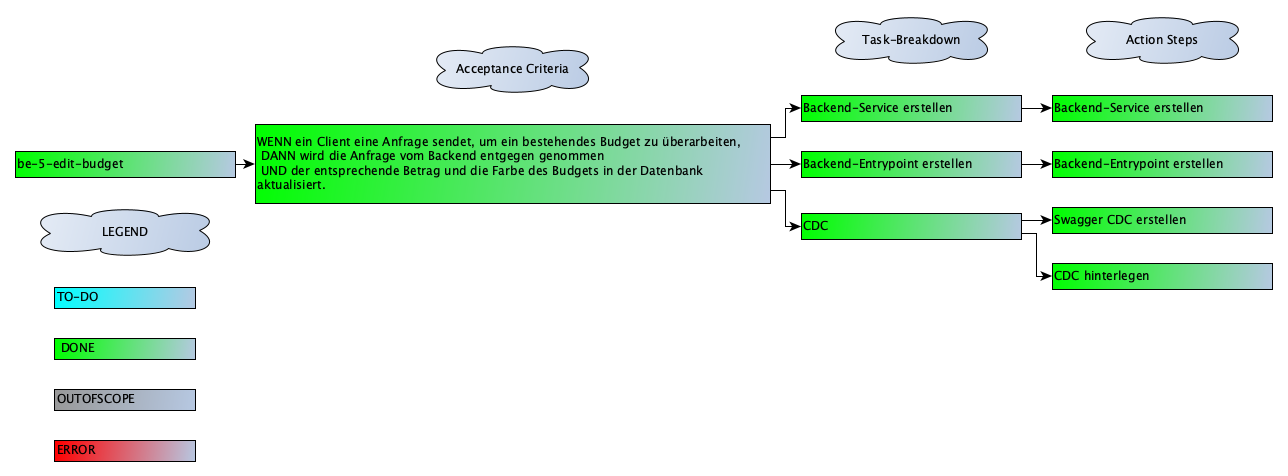
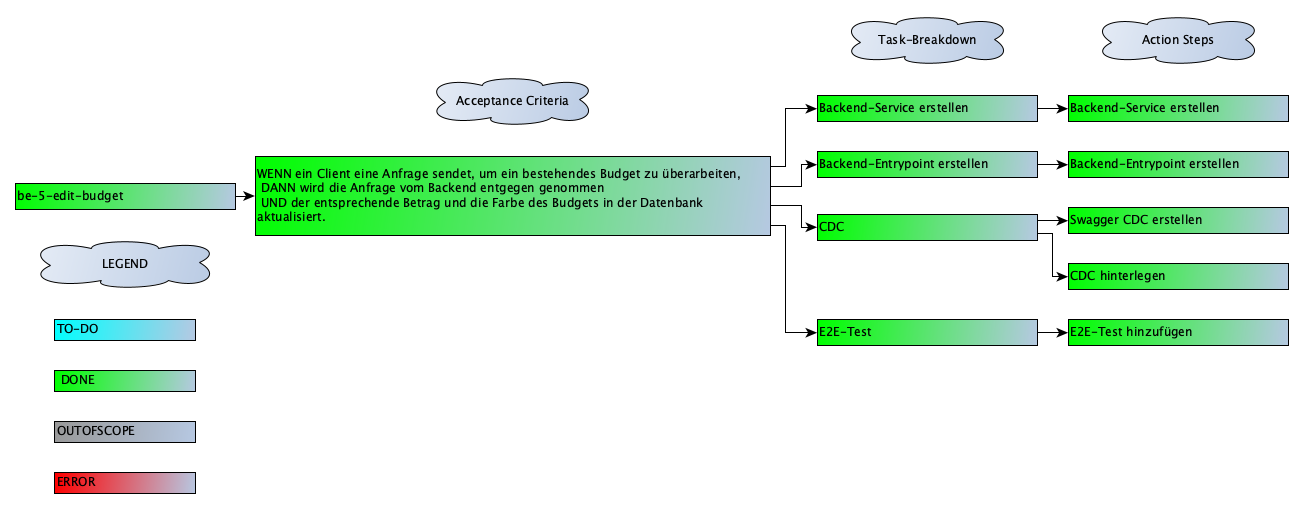
be-4 add E2E-Tests

diff --git a/backend/test/app.e2e-spec-local.ts b/backend/test/app.e2e-spec-local.ts
@@ -19,7 +19,7 @@ describe('AppController (e2e)', () => {
     return request(app.getHttpServer())
       .get('/')
       .expect(200)
-      .expect('Hello World!');
+      .expect('Server is reachable and healthy');
   });
 
   it('/balance (GET)', async () => {
@@ -472,5 +472,33 @@ describe('AppController (e2e)', () => {
         { category: 'Dining Out', maximum: '75.00', theme: '#F2CDAC' },
         { category: 'Personal Care', maximum: '100.00', theme: '#626070' },
       ]);
+  });
+
+  it('/budget/addNewBudget (POST)', async () => {
+    const newBudget = {
+      category: 'Transportation',
+      maximum: 50.0,
+      theme: '#277C78',
+    };
+
+    return request(app.getHttpServer())
+      .post('/budget/addNewBudget')
+      .send(newBudget)
+      .expect(201)
+      .expect({});
+  });
+
+  it('/budget/editBudget (PUT)', async () => {
+    const updatedBudget = {
+      category: 'Personal Care',
+      maximum: 100.0,
+      theme: '#FF5733',
+    };
+
+    return request(app.getHttpServer())
+      .put('/budget/editBudget')
+      .send(updatedBudget)
+      .expect(200)
+      .expect({});
   });
 });

diff --git a/backend/test/app.e2e-spec.ts b/backend/test/app.e2e-spec.ts
@@ -473,4 +473,32 @@ describe('AppController (e2e)', () => {
         { category: 'Personal Care', maximum: '100.00', theme: '#626070' },
       ]);
   });
+
+  it('/budget/addNewBudget (POST)', async () => {
+    const newBudget = {
+      category: 'Transportation',
+      maximum: 50.0,
+      theme: '#277C78',
+    };
+
+    return request(app.getHttpServer())
+      .post('/budget/addNewBudget')
+      .send(newBudget)
+      .expect(201)
+      .expect({});
+  });
+
+  it('/budget/editBudget (PUT)', async () => {
+    const updatedBudget = {
+      category: 'Personal Care',
+      maximum: 100.0,
+      theme: '#FF5733',
+    };
+
+    return request(app.getHttpServer())
+      .put('/budget/editBudget')
+      .send(updatedBudget)
+      .expect(200)
+      .expect({});
+  });
 });
